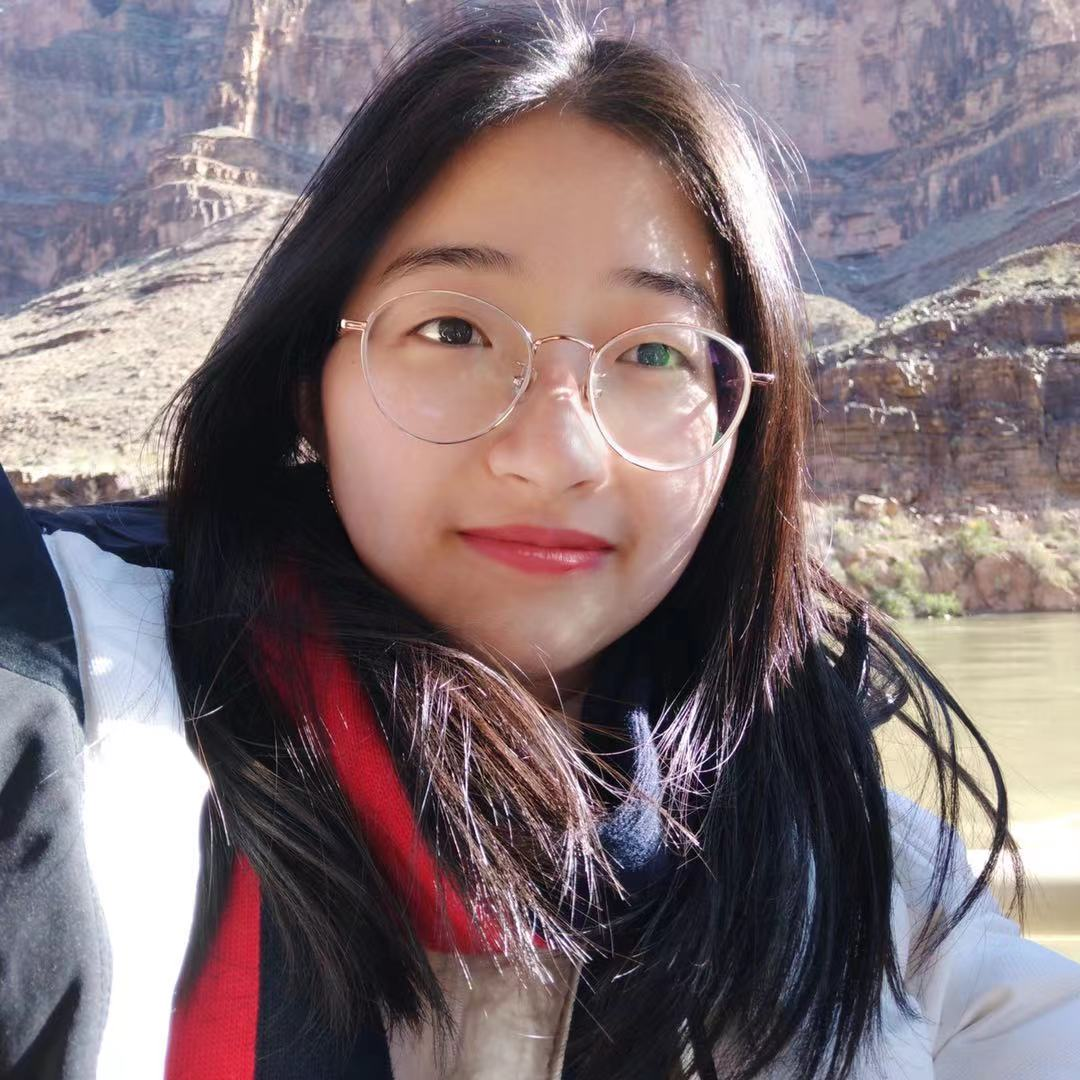
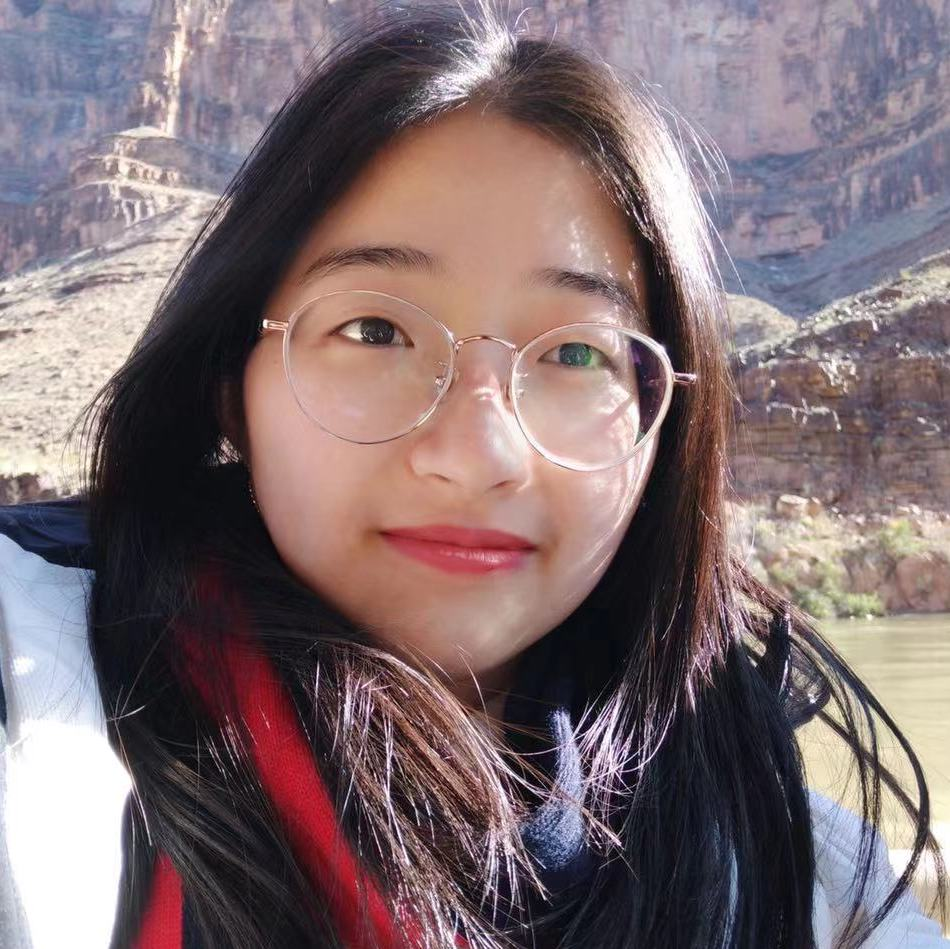
Merge pull request #24 from jdossgollin/master
Add Sophia

diff --git a/group-members/index.html b/group-members/index.html
@@ -482,9 +482,9 @@
 
 <div class="col-sm-1"></div>
 <div class="col-sm-3">
-  <img src="/assets/img/people/" alt="Sophia"
+  <img src="/assets/img/people/sprieto.jpg" alt="Sophia"
     class="thumbnail hidden-xs lab-member-photo" />
-  <img src="/assets/img/people/" alt="Sophia"
+  <img src="/assets/img/people/sprieto.jpg" alt="Sophia"
     class="thumbnail visible-xs lab-member-photo-small" />
 </div>
 <div class="col-sm-8">
@@ -497,6 +497,15 @@
   </h4>
   <div>
     
+    <img src="https://img.shields.io/static/v1?label=pronouns&message=she/her&color=red&style=flat-square"
+      alt="Pronouns">
+    
+    
+    <a href="mailto:sbp3@rice.edu">
+      <img
+        src="https://img.shields.io/static/v1?label=email&message=sbp3@rice.edu&color=blue&style=flat-square&logo=gmail"
+        alt="email">
+    </a>
     
     
     
@@ -506,9 +515,17 @@
     <!-- Social media identity -->
     
     
+    <a href="https://www.linkedin.com/in/sophia-prieto-506460179/">
+      <img src="https://img.shields.io/static/v1?label=&message=LinkedIn&color=0077B5&style=flat-square&logo=linkedin"
+        alt="LinkedIn">
+    </a>
+    
     
   </div>
   <!-- bio and description -->
+  
+  <p><p>Sophia Prieto is a third year undergraduate student majoring in Statistics and minoring in Data Science. Her main interests are in sustainability and renewable energy, as well as automation and machine learning. She is currently working on designing an application for a K-Nearest Neighbor Space-Time Simulator algorithm that creates stochastic projection of wind and solar potential in Texas. Other interests include weightlifting, cycling, bread-making and art and design.</p>
+</p>
   
 </div>
 <div class="clearfix"></div>

diff --git a/funding/index.html b/funding/index.html
@@ -250,12 +250,12 @@
 </div>
 <h4>Current Support:</h4>
 <div class="row">
-                                                                                                                                                                                              
+                                                                                                                                                                                                
 </div>
 
 <h4>Past Support:</h4>
 <div class="row">
-                                                                                                                                                                                              
+                                                                                                                                                                                                
 </div>
 </article>
 
